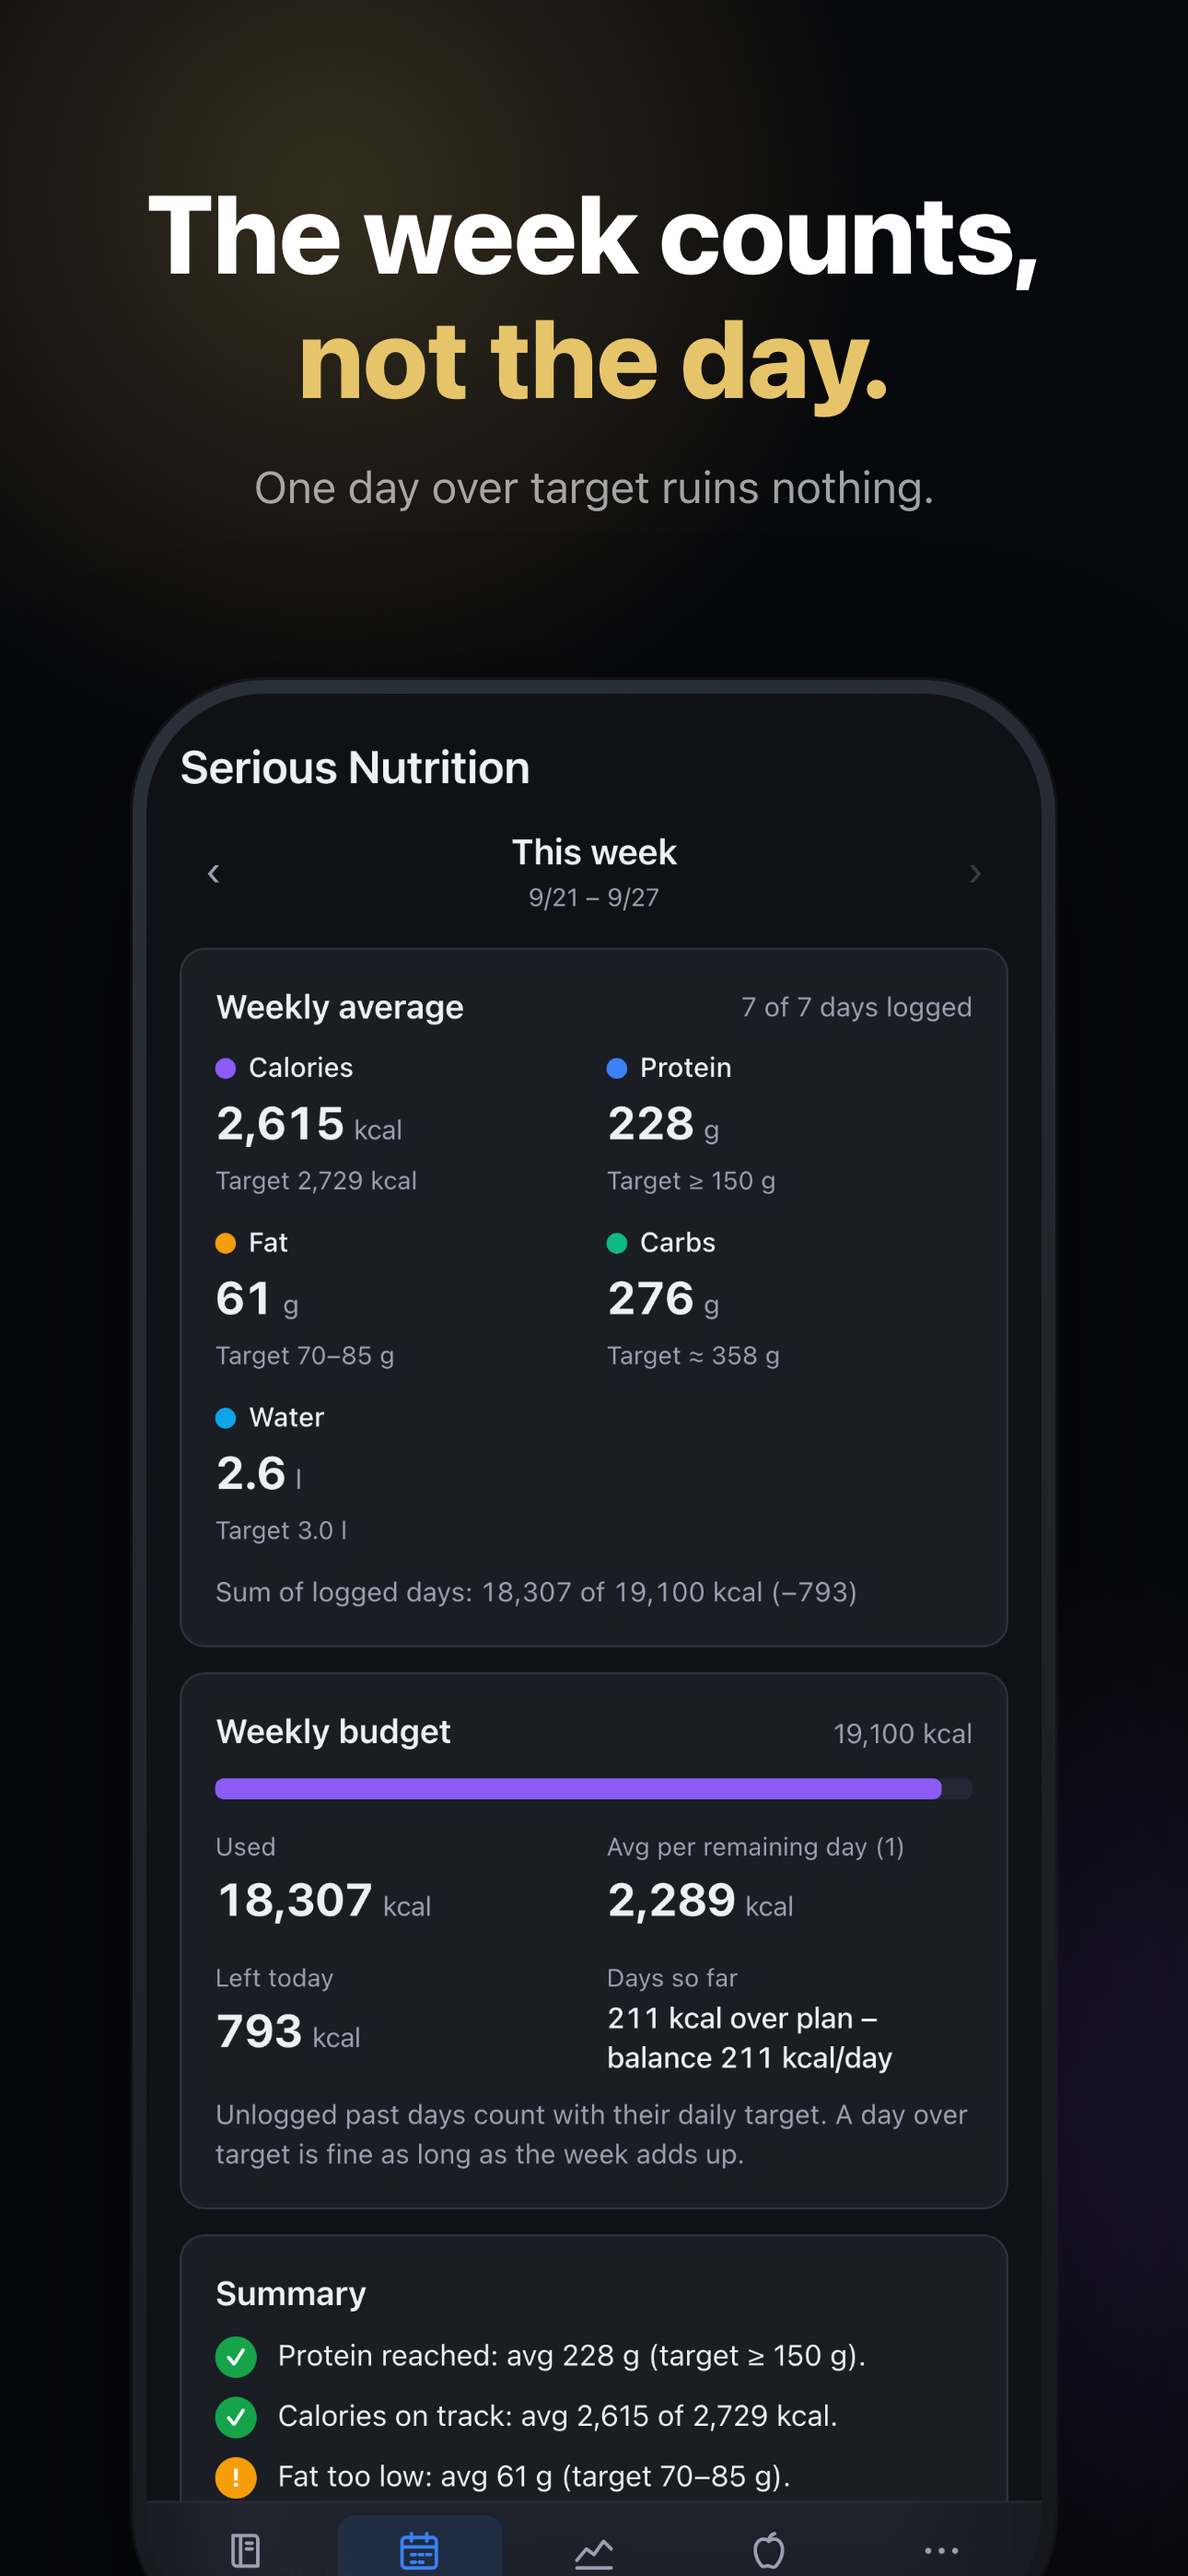
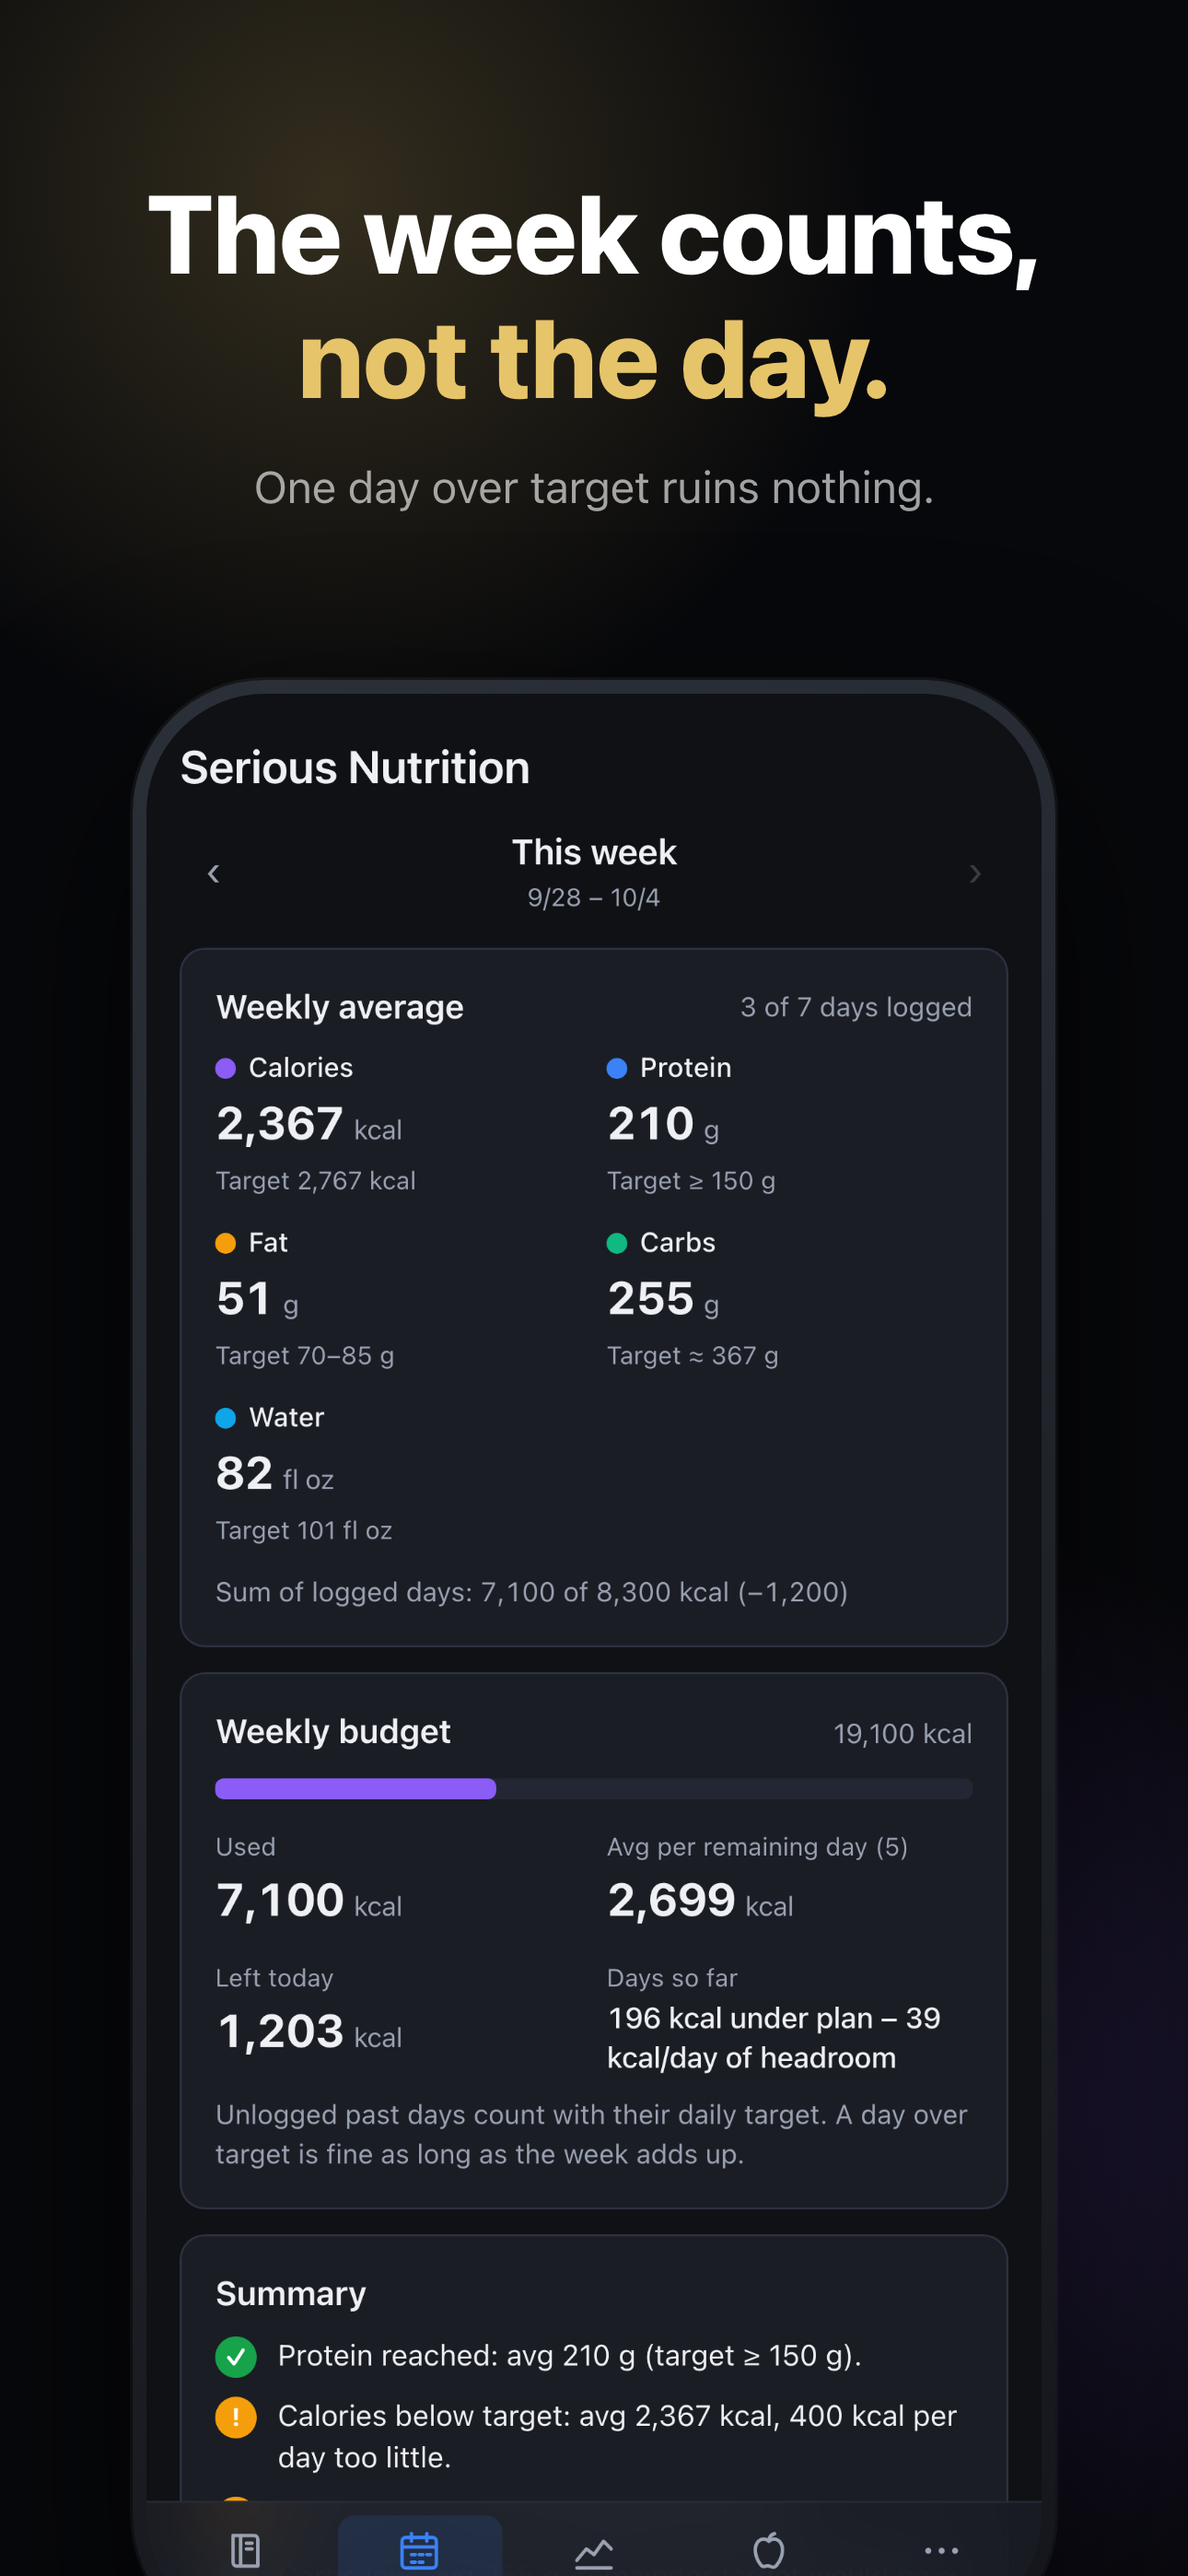
Termine auf den Launch am 11.10.2026 gesetzt, Screenshots neu
Freigabe am 11.10.2026, Einfuehrungspreis CHF 15 bis 31.01.2027 - der Januar
ist der staerkste Monat fuer Ernaehrungs-Apps und laeuft damit ganz zum
tiefen Preis. Daten in Checkliste, Launch-Plan und Werbetext nachgezogen.

Screenshots neu erzeugt: die Wasser-Karte zeigt inzwischen "noch 1.3 l"
statt Milliliter neben einem Ziel in Litern.

Dabei ein Fehler in den Aufnahme-Daten aufgefallen: die Demo-Lebensmittel
waren als mitgeliefert markiert statt als eigene. Seit die Suche ohne
Suchbegriff nur eigene zeigt, stand auf Bild 2 genau ein Eintrag - das Bild,
das "Scannen. Eintragen. Fertig." verspricht. Jetzt wieder die volle Liste
mit Favoriten zuoberst.

Review-Notizen nennen die Schweizer Quelle, falls der Pruefer nach der
Herkunft der Daten fragt.

diff --git a/docs/RELEASE-1.1.md b/docs/RELEASE-1.1.md
@@ -1,5 +1,9 @@
 # Checkliste: Version 1.1 veröffentlichen
 
+**Freigabetermin: 11.10.2026.** Eingereicht wird vorher, damit genug Zeit bleibt, falls Apple
+etwas beanstandet. Einführungspreis CHF 15.00 vom 11.10.2026 bis 31.01.2027, danach CHF 25.00 –
+der Januar ist der stärkste Monat für Ernährungs-Apps und soll zum tiefen Preis laufen.
+
 Diese Liste existiert, damit beim Go nichts vergessen geht. Vieles davon lässt sich **nur zusammen
 mit einer neuen Version** ändern (Beschreibung, Screenshots, „Neu in dieser Version") – wird es
 vergessen, steht es bis zur 1.2 falsch im Store.
@@ -48,33 +52,30 @@ Alle Texte liegen fertig in `store/LISTING.md`. Reihenfolge unten ist die Reihen
 - [ ] App Privacy prüfen: weiterhin „Data Not Collected"
 - [ ] Export-Compliance: nur HTTPS, `ITSAppUsesNonExemptEncryption = false` ist gesetzt
 - [ ] Altersfreigabe unverändert (4+)
-- [ ] **Freigabe auf „manuell" stellen** („Manually release this version"). Sonst geht die Version in
-      der Nacht nach der Freigabe live, und der Launch-Tag aus `marketing/LAUNCH-1.1.md` passt nicht
-      mehr dazu.
+- [ ] **Freigabe terminieren:** „Automatically release this version after App Review, **no earlier
+      than**" → **11.10.2026**, morgens. Das Datum lässt sich bis zum Auslösen jederzeit ändern.
+      Ohne diese Einstellung geht die Version in der Nacht nach Apples Freigabe live.
 - [ ] Einreichen
 
 ## 3. Preis setzen – nach Apples Freigabe, vor der Veröffentlichung
 
 Der Kauf geht mit **CHF 15.00** in die Review; während der Review nichts am Preis ändern.
-Regulär ist **CHF 25.00**, die 15 sind der Einführungspreis. Weil die Version manuell
-freigegeben wird, gibt es dafür ein ruhiges Zeitfenster zwischen Apples Freigabe und deinem
-Launch-Tag.
+Regulär ist **CHF 25.00**, die 15 sind der Einführungspreis. Zwischen Apples Freigabe und dem
+11.10.2026 bleibt dafür ein ruhiges Zeitfenster.
 
 - [ ] In App Store Connect → In-App-Käufe → `pro_lifetime` → **Basispreis auf CHF 25.00**
-- [ ] **Geplante Preisänderung** anlegen: CHF 15.00, Start = Launch-Tag, **Ende = 30.11.2026**.
+- [ ] **Geplante Preisänderung** anlegen: CHF 15.00, Start = **11.10.2026**, **Ende = 31.01.2027**.
       Danach stellt Apple von selbst auf 25 zurück – so kann die Erhöhung nicht vergessen gehen.
-      (Falls sich kein Enddatum setzen lässt: Termin am 30.11. im Kalender, Preis von Hand.)
-- [ ] Verschiebt sich der Launch auf November, das Enddatum auf den 31.12.2026 legen –
-      die Launch-Phase soll rund sechs Wochen dauern, nicht zwei
+      (Falls sich kein Enddatum setzen lässt: Termin am 31.01.2027 im Kalender, Preis von Hand.)
 - [ ] Preisänderungen brauchen **keine neue Version und keine Review**
 - [ ] Nichts im Code oder in der Beschreibung anpassen: die Paywall zeigt den Preis direkt
       aus dem Store, die Store-Texte nennen bewusst keine Zahl
-- [ ] Am 30.11. den Werbetext zurücksetzen (er nennt den Einführungspreis, siehe
+- [ ] Am 31.01.2027 den Werbetext zurücksetzen (er nennt den Einführungspreis, siehe
       `store/LISTING.md`) – der Werbetext ist jederzeit änderbar, ohne neue Version
 
 ## 4. Nach der Freigabe durch Apple
 
-- [ ] Version manuell freigeben – am gewählten Launch-Tag, morgens
+- [ ] Am 11.10.2026 prüfen, dass die Version tatsächlich live gegangen ist
 - [ ] Store-Seite in beiden Sprachen anschauen: Screenshots, Beschreibung, Preis des Kaufs
 - [ ] Kauf einmal mit einem echten Konto testen (Sandbox verhält sich anders als der Live-Store)
       und dabei prüfen, dass die Paywall den Einführungspreis zeigt. Das Geld geht wirklich weg;

diff --git a/marketing/LAUNCH-1.1.md b/marketing/LAUNCH-1.1.md
@@ -2,7 +2,7 @@
 
 Ausgangslage: 1.0 ist seit dem 23.09.2026 im Store, gratis, ohne Konto. Mit 1.1 kommt
 Pro als Einmalkauf: regulär CHF 25.00, zum Start CHF 15.00 als Einführungspreis bis
-30.11.2026. Kein Marketingbudget, ein Kanal im Aufbau
+31.01.2027. Launch-Tag ist der 11.10.2026. Kein Marketingbudget, ein Kanal im Aufbau
 (@seriousnutritiontracker, 0 Follower), eine bestehende Reichweite (be_s3rious) und
 Coaching-Kunden.
 
@@ -107,7 +107,7 @@ Mehr Downloads sind nur die halbe Rechnung. Die andere Hälfte kostet nichts:
   bewiesen hat – etwa wenn die erste Wochenauswertung bereitsteht oder die Phasen-Auswertung
   das erste Urteil hat.
 - **Preis einordnen.** „Einmal 15 CHF statt 80 CHF im Jahr" ist überzeugender als „15 CHF".
-- **Einführungspreis mit Enddatum: CHF 15 bis 30.11.2026, danach CHF 25.** Der reguläre Preis
+- **Einführungspreis mit Enddatum: CHF 15 bis 31.01.2027, danach CHF 25.** Der reguläre Preis
   ist 25 – das ist der Wert, den Apple Health, Widgets, Vorlagen, Portionen, Trend und CSV
   zusammen haben, gemessen an 60 bis 80 CHF **pro Jahr** bei Cronometer, MacroFactor und
   MyFitnessPal. Die 15 sind der Grund, in der Launch-Phase jetzt zu kaufen, statt später.
@@ -115,7 +115,7 @@ Mehr Downloads sind nur die halbe Rechnung. Die andere Hälfte kostet nichts:
   von selbst und du kannst es nicht vergessen.
 - **Die Zahl gehört in deine Posts, nicht in die Store-Beschreibung.** Die deutsche
   Store-Sprache sehen auch Deutschland und Österreich, dort steht ein Euro-Preis – „CHF 15"
-  wäre dort schlicht falsch. Im Store nur „Einführungspreis bis 30. November", die konkrete
+  wäre dort schlicht falsch. Im Store nur „Einführungspreis bis 31. Januar", die konkrete
   Zahl auf TikTok und Instagram, wo dein Publikum in der Schweiz sitzt.
 - **Wenn du erhöhst, dann wirklich.** Ein angekündigter Preisanstieg, der nie kommt, wirkt
   beim zweiten Mal nicht mehr. Wer vorher gekauft hat, behält alles – niemand wird bestraft.

diff --git a/docs/APP-REVIEW-NOTES.md b/docs/APP-REVIEW-NOTES.md
@@ -49,11 +49,13 @@ first launch after the update the app checks for existing local data (settings, 
 entries, weights, own foods) and grants the unlock. A reviewer installing the app fresh will
 therefore see the paywall, which is the intended behaviour.
 
-OFFLINE FOOD TABLE – 1.1 bundles about 6,400 basic foods (names plus energy, protein, fat and
-carbohydrates per 100 g) inside the app, so search works without a network connection. Source: the
-German Nutrient Database (Bundeslebensmittelschlüssel 4.0) published by the Max Rubner-Institut under
-CC BY 4.0. Attribution is shown in the app under More and in the App Store description. This is
-bundled data, not a service – no request is made to obtain it.
+OFFLINE FOOD TABLE – 1.1 bundles about 6,900 basic foods (names plus energy, protein, fat and
+carbohydrates per 100 g) inside the app, so search works without a network connection. Two sources:
+the German Nutrient Database (Bundeslebensmittelschlüssel 4.0) published by the Max Rubner-Institut
+under CC BY 4.0, and about 500 entries from the Swiss Food Composition Database V 7.1 published by
+the Swiss Federal Food Safety and Veterinary Office (FSVO), used with their written permission of
+30 September 2026. Attribution for both is shown in the app under More and in the App Store
+description. This is bundled data, not a service – no request is made to obtain it.
 
 LANGUAGE – The app now starts in the device language (English or German) instead of defaulting to
 English; the food names in the bundled table follow that language. It can still be changed under

diff --git a/docs/BLV-ANFRAGE.md b/docs/BLV-ANFRAGE.md
@@ -84,3 +84,33 @@ Damit ist die Nutzung geklärt. Auflagen: Quellenangabe in der App, Versionsnumm
 > Veterinärwesen BLV
 
 Gehört unter „Mehr" zu den bestehenden Angaben (Open Food Facts, BLS). Im App Store nicht nötig.
+
+## Antwortmail (30.09.2026)
+
+**An:** Raphaël Reinert, BLV
+**Betreff:** Re: Anfrage zur Nutzung der Schweizer Nährwertdatenbank
+
+Sehr geehrter Herr Reinert
+
+Herzlichen Dank für Ihre rasche und unkomplizierte Antwort.
+
+Die Daten sind inzwischen eingebaut. Konkret habe ich rund 500 Einträge übernommen – jene
+Lebensmittel, die in der von mir bisher verwendeten deutschen Nährwerttabelle fehlen, also vor
+allem Schweizer Gerichte und Produkte: Älplermagronen, Birchermüesli, Cervelat, Sbrinz,
+Baumnuss, Wähen. Pro Eintrag sind es Bezeichnung sowie Energie, Protein, Fett und Kohlenhydrate
+je 100 g. Die Werte liegen in der App gespeichert, damit die Suche auch ohne Internetverbindung
+funktioniert.
+
+Die Quellenangabe habe ich wie besprochen mit der Versionsnummer ergänzt. Sie steht in der App
+unter «Mehr»:
+
+«Schweizer Nährwertdatenbank V 7.1, Bundesamt für Lebensmittelsicherheit und Veterinärwesen BLV»
+
+Die Version mit den Schweizer Daten erscheint im Oktober im App Store. Bei Fragen oder falls
+Ihnen an der Umsetzung etwas auffällt, melden Sie sich gerne jederzeit.
+
+Freundliche Grüsse
+
+Luca Ernst
+Serious Nutrition
+lappino25@me.com

diff --git a/store/LISTING.md b/store/LISTING.md
@@ -23,12 +23,12 @@ so passt `offline` hinein, der einzige echte Unterschied zu Lifesum und Lose It!
 101 Zeichen und damit über dem Limit.)
 
 ## Werbetext (Apple, ≤170) – änderbar ohne neue Version
-- EN: `New: 6,900 basic foods built in, Swiss dishes included, so search works offline. Pro is a one-time purchase – at the launch price until November 30.` (148)
-- DE: `Neu: 6900 Grundnahrungsmittel in der App, Schweizer Küche inklusive – die Suche funktioniert offline. Pro: Einmalkauf zum Einführungspreis bis 30. November.` (156)
+- EN: `New: 6,900 basic foods built in, Swiss dishes included, so search works offline. Pro is a one-time purchase – at the launch price until January 31.` (147)
+- DE: `Neu: 6900 Grundnahrungsmittel in der App, Schweizer Küche inklusive – die Suche funktioniert offline. Pro: Einmalkauf zum Einführungspreis bis 31. Januar.` (154)
 
 Bewusst **ohne Zahl**: Die deutsche Store-Sprache sehen auch Deutschland und Österreich, wo ein
 Euro-Preis gilt. Die konkreten 15 Franken gehören in die eigenen Posts, nicht in den Store.
-Nach dem 30.11.2026 diesen Text zurücksetzen (geht jederzeit, ohne neue Version).
+Nach dem 31.01.2027 diesen Text zurücksetzen (geht jederzeit, ohne neue Version).
 
 ## Beschreibung – Englisch
 
